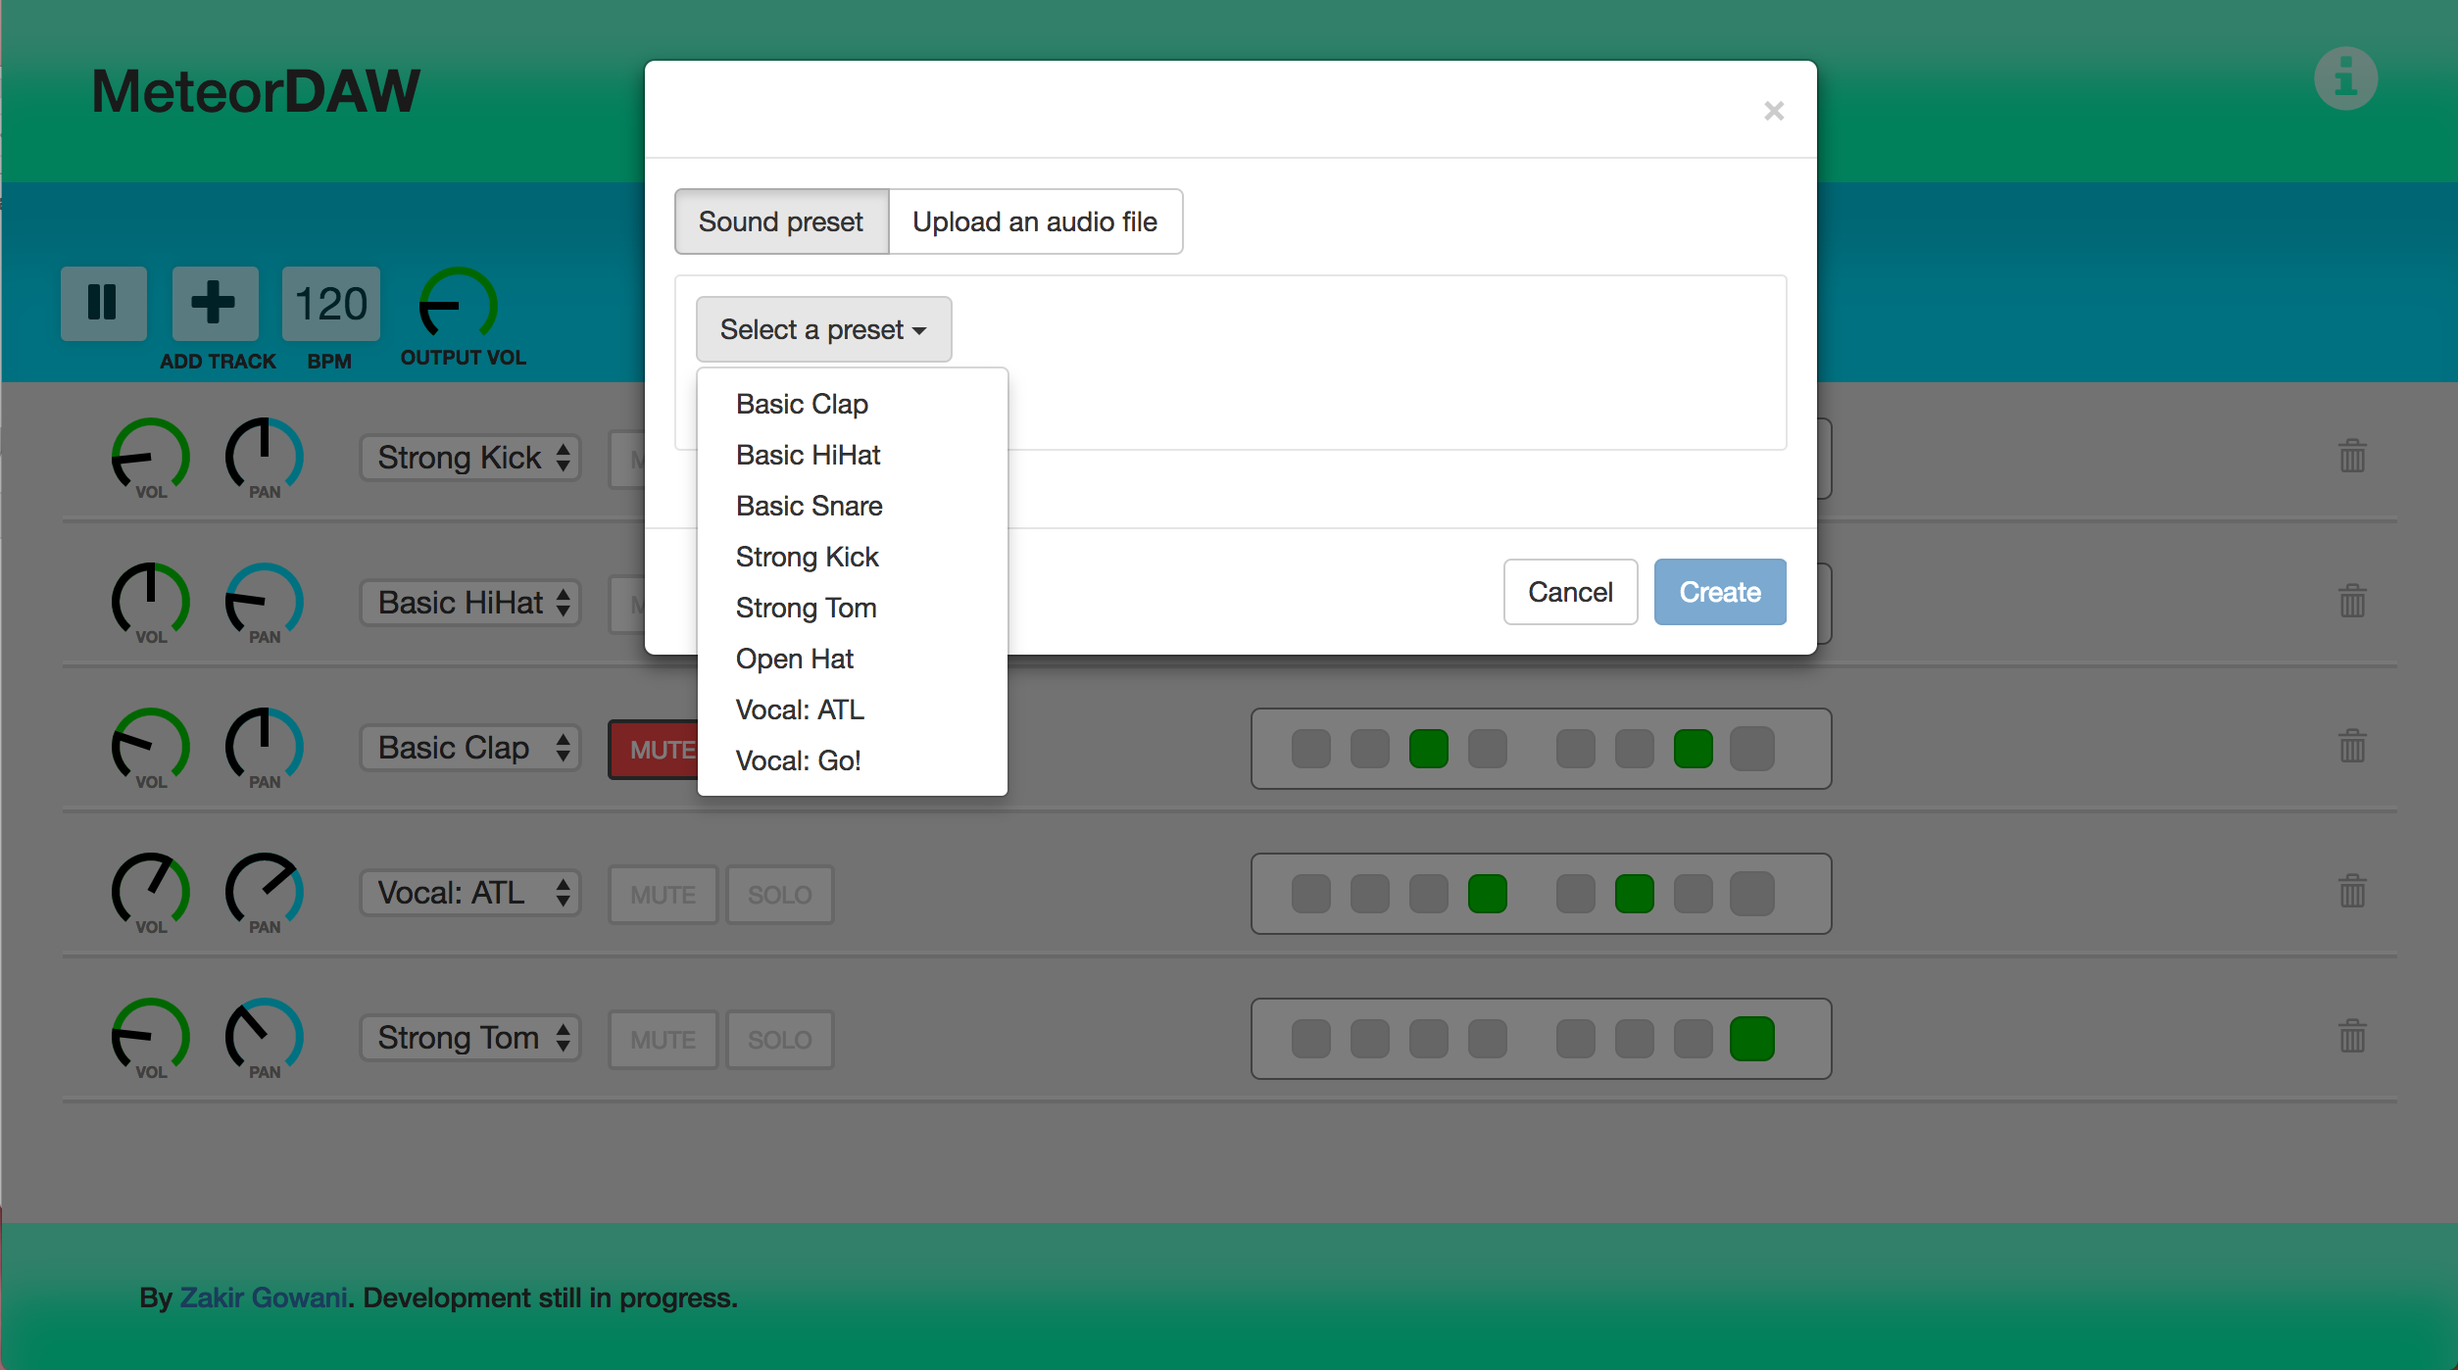
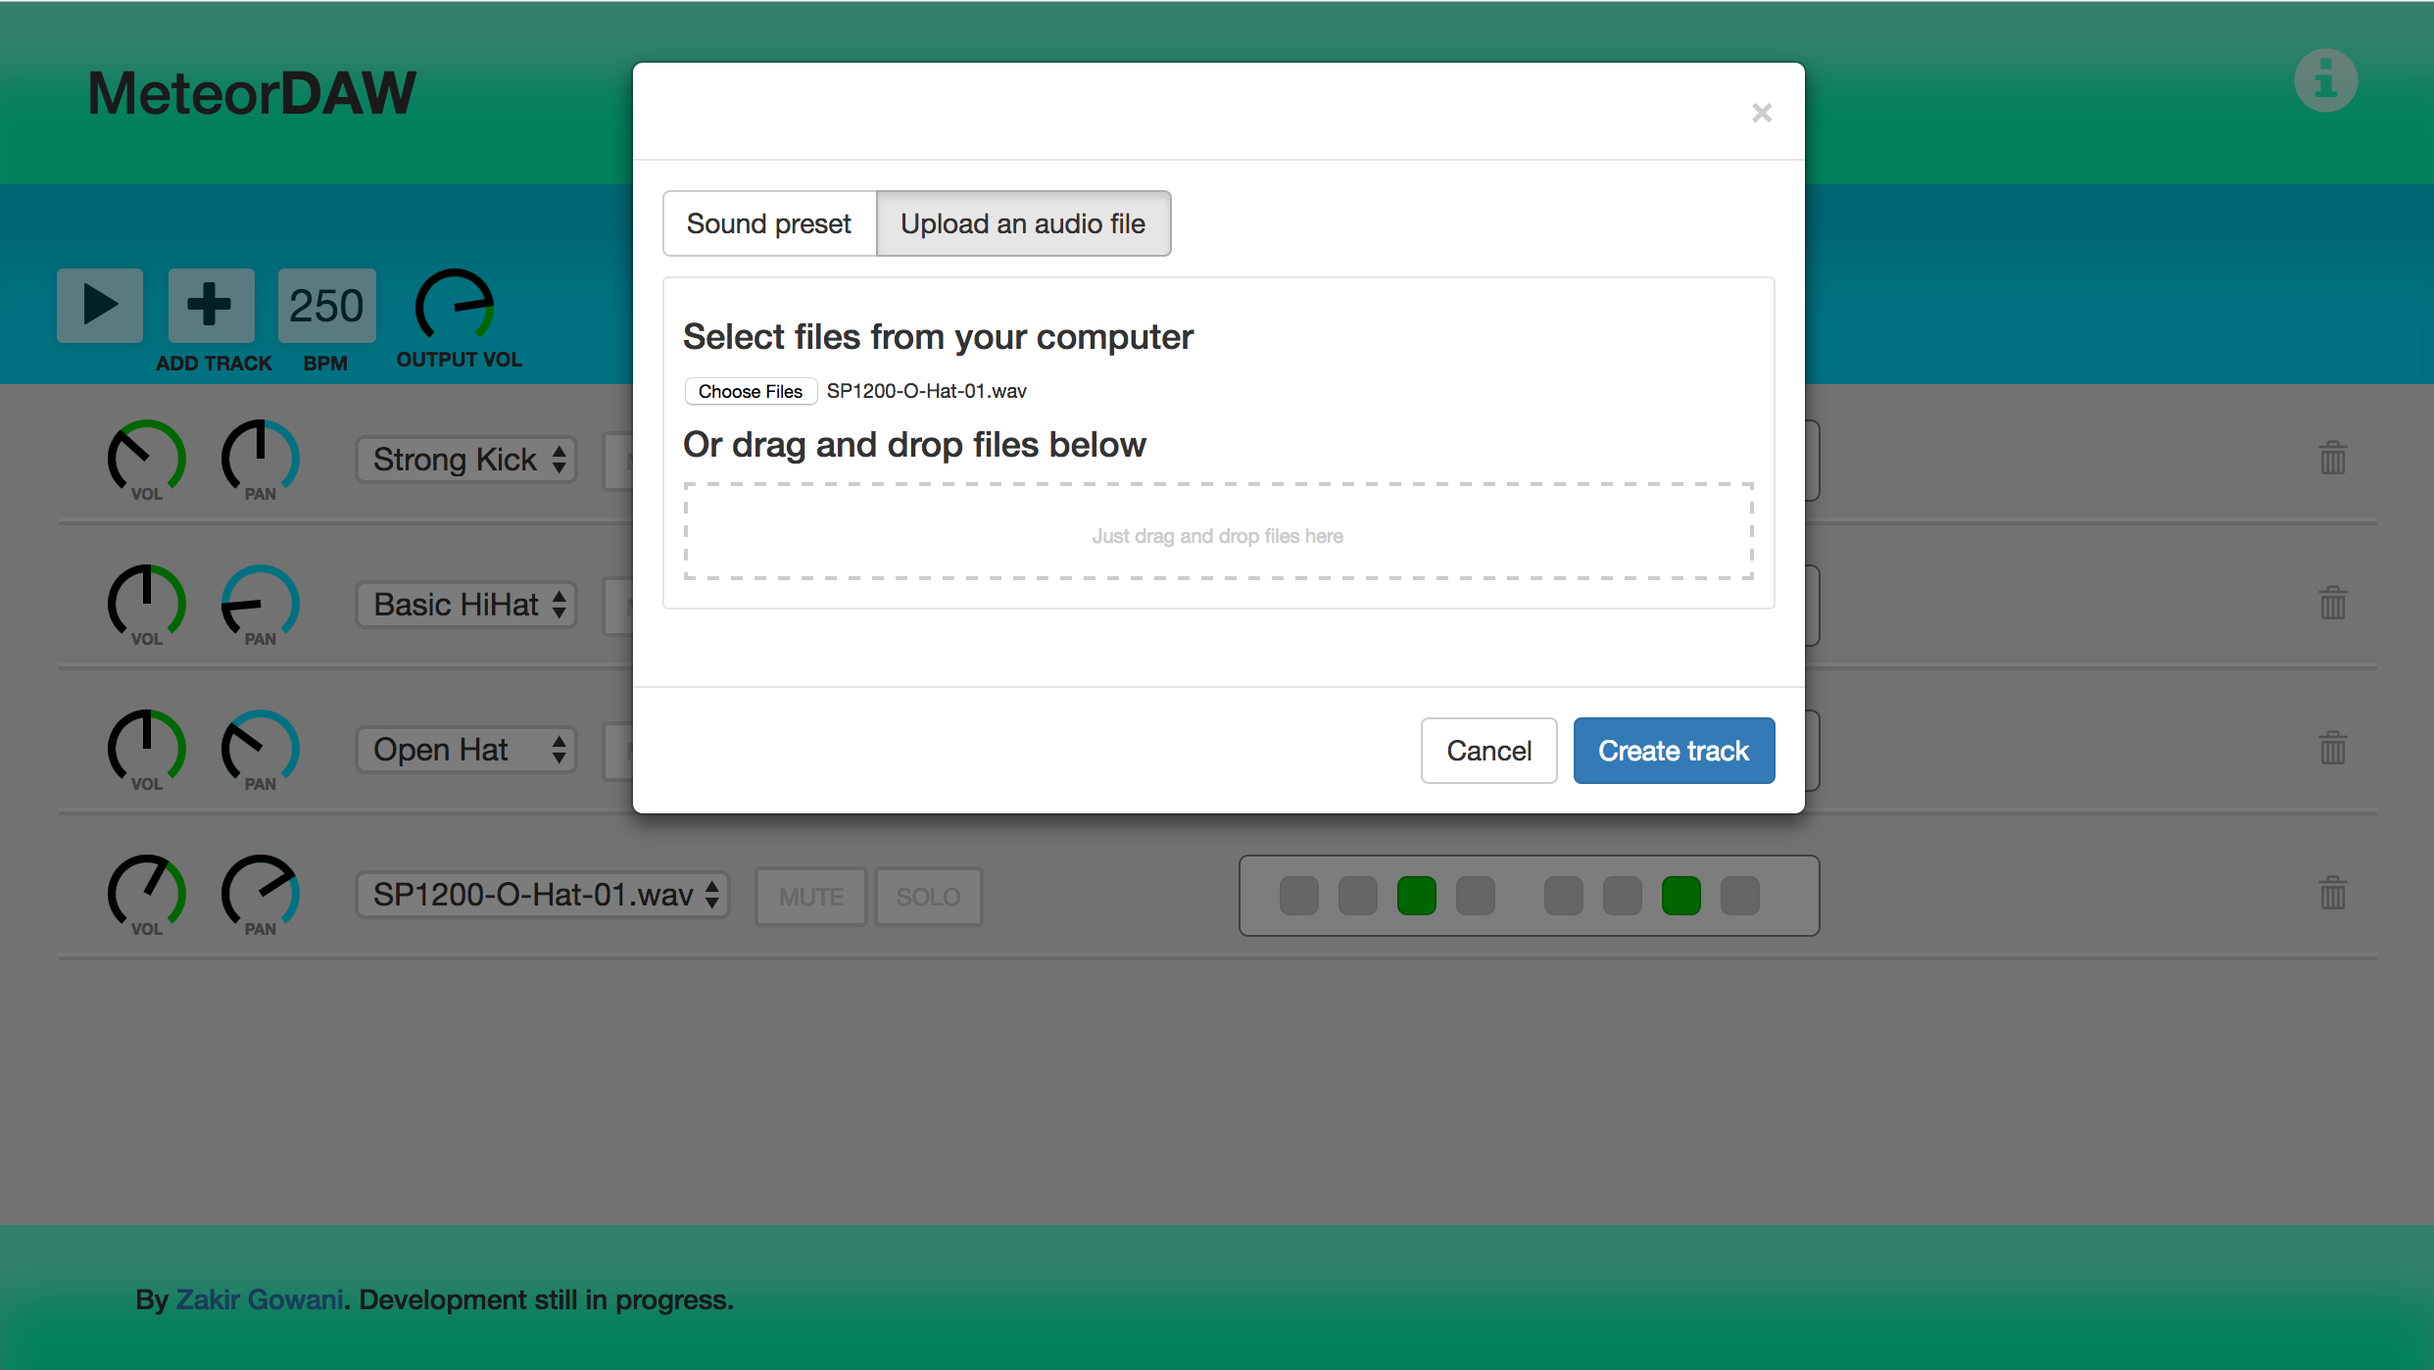
Users can now sequence with their own uploaded sounds

diff --git a/client/application/application.js b/client/application/application.js
@@ -11,6 +11,8 @@ var audioCtx = new (window.AudioContext || window.webkitAudioContext)();
 var masterSource = new MasterSource(audioCtx);
 var audioSources = {};
 
+var userSounds = {};
+
 Template.application.onRendered(function(){    
    sequenceIsPlaying = false;
    SelectedSounds.find().forEach(function(sound){
@@ -24,20 +26,33 @@ Template.application.helpers({
     }
 });
 
+var uploadedFiles = [];
+    
 Template.controlFrame.onRendered(function(){
     new Knob(document.getElementById('master-volume-knob'), new Ui.P2());
     $('input#master-volume-knob').change(function(){
         updateMasterVolume($(this).val());
     });
     
-    // $("#add-track-form").validate({
-//         rules: {
-//             soundSource: {
-//                 required: true,
-//                 minlength: 2
-//             }
-//         }
-//     });
+    var dropZone = document.getElementById('drop-zone');
+    var uploadForm = document.getElementById('js-upload-form');
+    
+    dropZone.ondrop = function(e) {
+        e.preventDefault();
+        this.className = 'upload-drop-zone';
+        uploadedFiles.push(e.dataTransfer.files[0]);
+        addTrackTracker.changed();
+    }
+
+    dropZone.ondragover = function() {
+        this.className = 'upload-drop-zone drop';
+        return false;
+    }
+
+    dropZone.ondragleave = function() {
+        this.className = 'upload-drop-zone';
+        return false;
+    }
 });
 
 var addTrackTracker = new Tracker.Dependency();
@@ -55,6 +70,7 @@ Template.controlFrame.helpers({
         var soundSource = $('#add-track-form #soundSource').val();
         var soundType = $('#add-track-form #soundType').val();
         if(soundType == 'preset' && soundSource != null && soundSource != "") return true;
+        if(soundType == 'user-upload' && uploadedFiles.length > 0) return true;
         return false;
     }
 });
@@ -69,10 +85,21 @@ Template.controlFrame.events({
         sequenceIsPlaying = false;
         playModeTracker.changed();
     },
+    'click .radio-panel': function(event){
+         if(event.target.id == 'upload-tab') {
+            $('#add-track-form #soundType').val('user-upload');
+            $('#add-track-form #soundSource').val("");
+         }
+         else if(event.target.id == 'preset-tab') {
+            $('#add-track-form #soundType').val('preset');
+            $('#add-track-form #dLabel .dropdown-text').prop('innerText', 'Select a preset');
+         }
+         addTrackTracker.changed();
+    },
     'click li.sound-preset': function(event){
         $('#add-track-form #dLabel .dropdown-text').prop('innerText', event.target.text);
-        $('#add-track-form #soundType').val('preset');
         $('#add-track-form #soundSource').val(event.target.id);
+        $('#add-track-form #soundType').val('preset');
         addTrackTracker.changed();
     },
     'click #create-track-submit' : function(event) {
@@ -82,7 +109,7 @@ Template.controlFrame.events({
             var soundSource = $('#add-track-form #soundSource').val();
             var soundChosen = AllSounds.findOne({'_id' : soundSource});
             var newSound = SelectedSounds.insert(soundChosen);
-            audioSources[newSound] = new Source(audioCtx, audioTagFor(newSound)[0]);
+            audioSources[newSound] = new Source(audioCtx, audioTagFor(newSound)[0], masterSource);
             $('#addTrackModal').modal('hide');
             $('#add-track-form #dLabel .dropdown-text').prop('innerText', 'Select a preset');
             $('#add-track-form #soundSource').val("");
@@ -90,9 +117,28 @@ Template.controlFrame.events({
             addTrackTracker.changed();
         }
         else {
+            var blob = window.URL || window.webkitURL;
+            fileURL = blob.createObjectURL(uploadedFiles[0]);
+            
+            var userSound = { 'type' : 'userUploadedSound', 
+                            'name' : uploadedFiles[0].name, 
+                            'sequenceSteps' : defaultSequence,
+                            'path' : fileURL };
+            
+            var userSoundId = SelectedSounds.insert(userSound);
+            audioSources[userSoundId] = new Source(audioCtx, audioTagFor(userSoundId)[0], masterSource);
+            uploadedFiles = [];
+            $('#addTrackModal').modal('hide');
             
         }
-    } 
+    },
+    'change input#js-upload-files': function(event){
+        var files = document.getElementById('js-upload-files').files;
+        if(files.length > 0) {
+            uploadedFiles.push(files[0]);
+        }
+        addTrackTracker.changed();
+    }
 });
 
 function calculateStepDelayFromTempo(){
@@ -125,7 +171,7 @@ function tempoStep(selectedSoundsCursor, sequenceConfiguration) {
     }
     selectedSoundsCursor.forEach(function(track){
         if(track.sequenceSteps[sequenceConfiguration.beatNumber] && !trackIsDisabled(track)) {
-            playSound(track._id);
+            playSound(track._id, track.type);
         }
     });
     sequenceConfiguration.beatNumber++;
@@ -151,11 +197,13 @@ function trackIsDisabled(selectedSound) {
 }
 
 // Plays the sound associated with a given track
-function playSound(selectedSoundId) {
+function playSound(selectedSoundId, selectedSoundType) {
     if(audioSources[selectedSoundId].gainNode.gain.value > 0 && masterSource.gainNode.gain.value > 0) {
-        var audioTag = audioTagFor(selectedSoundId);
-        audioTag.prop('currentTime', 0);
-        audioTag.trigger('play');
+        
+            var audioTag = audioTagFor(selectedSoundId);
+            audioTag.prop('currentTime', 0);
+            audioTag.trigger('play');
+        
     }
 }
 
@@ -213,7 +261,7 @@ Template.track.events({
         
         // Play the sound the user selected, if it was toggled to true
         if(newSequenceSteps[event.target.name] && !trackIsDisabled(selectedSound)) {
-            playSound(event.target.id);
+            playSound(event.target.id, selectedSound.type);
         }
         
         SelectedSounds.update({_id : event.target.id} , {$set : {'sequenceSteps' : newSequenceSteps}});

diff --git a/client/application/main.html b/client/application/main.html
@@ -51,10 +51,10 @@
               <div class="modal-body">
                 <div class="panel-group" id="accordion">
                     <div id="tab" class="btn-group" data-toggle="buttons">
-                        <a href="#sound-preset-dropdown" class="btn btn-default active" data-toggle="tab">
-                            <input type="radio" value="preset" required/>Sound preset</a>
-                        <a href="#features" class="btn btn-default" data-toggle="tab">
-                            <input type="radio" value="user-upload"/>Upload an audio file</a>
+                        <a href="#sound-preset-dropdown" id="preset-tab" class="btn btn-default active radio-panel" data-toggle="tab">
+                            <input type="radio" value="preset" name="sound-type-radio" required/>Sound preset</a>
+                        <a href="#sound-upload" id="upload-tab" class="btn btn-default radio-panel" data-toggle="tab">
+                            <input type="radio" value="user-upload" name="sound-type-radio"/>Upload an audio file</a>
                     </div>
                     <div class="tab-content">
                         <div class="tab-pane active" id="sound-preset-dropdown">
@@ -75,8 +75,39 @@
                                 </ul>
                             </div>
                         </div>
-                        <div class="tab-pane" id="features">
-                            ---
+                        <div class="tab-pane" id="sound-upload">
+                            <h4>Select files from your computer</h4>
+                            
+                            
+                              
+                            <div class="form-inline">
+                              <div class="form-group">
+                                <input type="file" name="files[]" id="js-upload-files" multiple>
+                              </div>
+                             <!--  <button type="submit" class="btn btn-sm btn-primary" id="js-upload-submit">Upload files</button> -->
+                            </div>
+                              <h4>Or drag and drop files below</h4>
+                              <div class="upload-drop-zone" id="drop-zone">
+                                Just drag and drop files here
+                              </div>
+                              
+                              <!-- 
+<div class="progress">
+                                <div class="progress-bar" role="progressbar" aria-valuenow="60" aria-valuemin="0" aria-valuemax="100" style="width: 60%;">
+                                  <span class="sr-only">60% Complete</span>
+                                </div>
+                              </div>
+ -->
+
+                              <!-- 
+                                <div class="js-upload-finished">
+                                <h3>Processed files</h3>
+                                <div class="list-group">
+                                  <a href="#" class="list-group-item list-group-item-success"><span class="badge alert-success pull-right">Success</span>image-01.jpg</a>
+                                  <a href="#" class="list-group-item list-group-item-success"><span class="badge alert-success pull-right">Success</span>image-02.jpg</a>
+                                </div>
+                              </div>
+ -->   
                         </div>
                         <input style="visibility:hidden;height:0;" name="soundSource" id="soundSource"/>
                         <input style="visibility:hidden;height:0;" name="soundType" id="soundType"/>
@@ -86,9 +117,9 @@
               <div class="modal-footer">
                 <button type="button" class="btn btn-default" data-dismiss="modal">Cancel</button>
                 {{#if addTrackFormValid}}
-                    <button type="button" class="btn btn-primary" id="create-track-submit">Create</button>
+                    <button type="button" class="btn btn-primary" id="create-track-submit">Create track</button>
                 {{else}}
-                    <button type="button" class="btn btn-primary" disabled>Create</button>
+                    <button type="button" class="btn btn-primary" disabled>Create track</button>
                 {{/if}}
               </div>
             </form>

diff --git a/client/application/main.css b/client/application/main.css
@@ -105,3 +105,59 @@ a:active, a:focus, a:hover {
         padding:20px 70px;
     }
 }
+
+.upload-drop-zone {
+  height: 50px;
+  border-width: 2px;
+  margin-bottom: 20px;
+}
+
+/* skin.css Style*/
+.upload-drop-zone {
+  color: #ccc;
+  border-style: dashed;
+  border-color: #ccc;
+  line-height: 50px;
+  text-align: center
+}
+
+.upload-drop-zone.drop {
+  color: #222;
+  border-color: #222;
+}
+
+#addTrackModal .tab-pane {
+    border: solid 1px #e5e5e5;
+    border-radius: 3px;
+    margin:10px 0 10px 0;
+    padding:10px;
+    text-align:left;
+    height:90px;
+}
+
+#addTrackModal .tab-pane#sound-upload{
+    height:170px;
+}
+
+#addTrackModal .dropdown-header {
+    font-size:14px;
+}
+
+#addTrackModal .panel-group {
+    margin-bottom:0;
+}
+
+.btn {
+    -webkit-transition:background-color .4s;
+       -moz-transition:background-color .4s;
+            transition:background-color .4s;
+}
+
+#addTrackModal #dLabel {
+    background-color:white;
+    border:solid 1px #ccc;
+}
+
+#addTrackModal #dLabel:hover, #addTrackModal #dLabel:focus {
+    background-color: #e6e6e6;
+}

diff --git a/client/application/track.css b/client/application/track.css
@@ -199,34 +199,3 @@ button.sequence-step.time-active {
   fill: black;
 }
 
-#addTrackModal .tab-pane {
-    border: solid 1px #e5e5e5;
-    border-radius: 3px;
-    margin:10px 0 10px 0;
-    padding:10px;
-    text-align:left;
-    height:90px;
-}
-
-#addTrackModal .dropdown-header {
-    font-size:14px;
-}
-
-#addTrackModal .panel-group {
-    margin-bottom:0;
-}
-
-.btn {
-    -webkit-transition:background-color .4s;
-       -moz-transition:background-color .4s;
-            transition:background-color .4s;
-}
-
-#addTrackModal #dLabel {
-    background-color:white;
-    border:solid 1px #ccc;
-}
-
-#addTrackModal #dLabel:hover, #addTrackModal #dLabel:focus {
-    background-color: #e6e6e6;
-}

diff --git a/lib/sounds.js b/lib/sounds.js
@@ -1,4 +1,4 @@
-var defaultSequence = Array.apply(null, Array(8)).map(Number.prototype.valueOf,0); // array of 8 zeros for a default sequence
+defaultSequence = Array.apply(null, Array(8)).map(Number.prototype.valueOf,0); // array of 8 zeros for a default sequence
 
  // All sounds presets available
 basicClap = { 'path' : 'sounds/basicClap.wav', 'type' : 'presetSound', 'name' : 'Basic Clap', 'sequenceSteps' : defaultSequence};

diff --git a/client/application/track.html b/client/application/track.html
@@ -37,7 +37,7 @@
         </div>
         <button class="delete-button" name="{{_id}}"><span class="glyphicon glyphicon-trash"></span></button> 
         <audio id="audio-{{_id}}">
-            <source src="{{path}}" type="audio/wav"/> 
+            <source src="{{path}}"/> 
         </audio>
     </div>
 </template>

diff --git a/README.md b/README.md
@@ -7,11 +7,10 @@
 <img src="./public/screenshots/addTrackScreenshot.png" alt="Add Track Screenshot on Desktop" width="550"/>
 
 ##### Features:
-- sequencer functionality: program rhythms at a range of tempos with sound presets
+- sequencer functionality: program rhythms at a range of tempos with user-uploaded sounds and a selection of presets
+- responsive layout
 - track controls: mute, solo, volume/pan knobs, sequencer steps, sound selection
 - master controls: play, pause, add new tracks, adjust tempo, master volume
-- tempo can be changed during playback
-- responsive layout, works well on iPhone 5 (320px)
 
 ##### Build instructions:
 Install <a href="https://www.meteor.com/" target="_blank">Meteor</a> and then run
@@ -23,10 +22,10 @@ meteor
 You may be prompted to install additional packages. 
 Once the app is running, navigate to http://localhost:3000/ in your browser.
 
-##### Upcoming features in release 1.0:
-- allow for user-uploaded sounds for sequencing
-- finer control over time-divisions
+##### Upcoming features for release 1.0:
+- a dynamic grid to allow sequencing with eighth, 16th, and 32nd notes
 - sequence export to wav
+- UI updates and visual improvements for iPhone 5 (320px)
 
 ##### Feature goals for v2.0:
 - a midi-compatible piano roll
